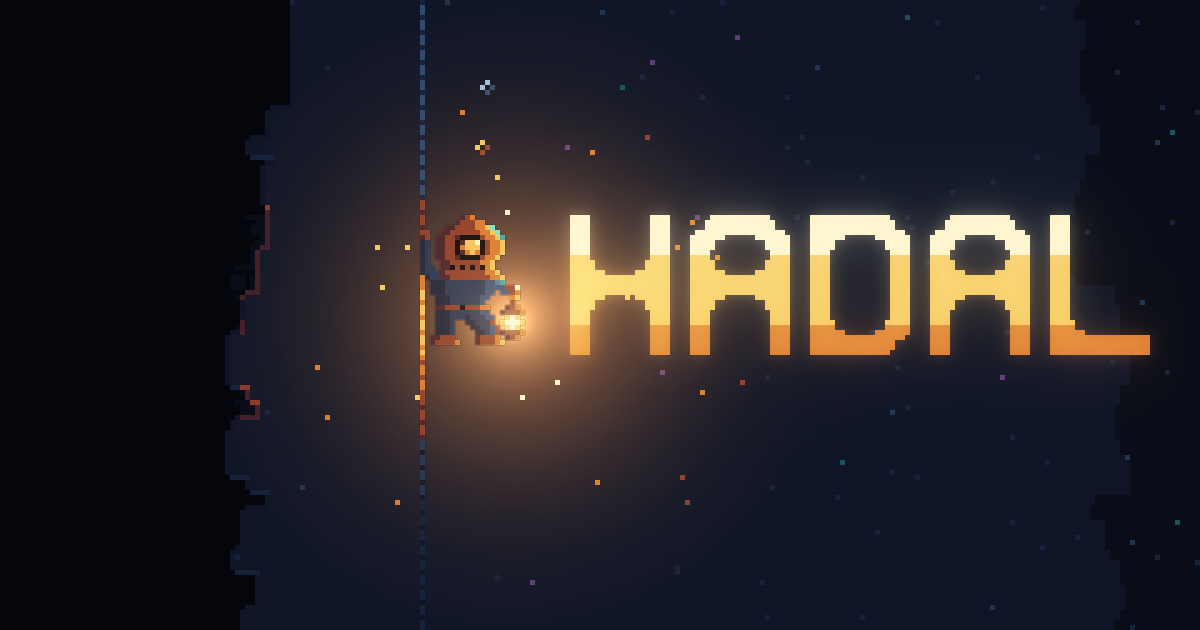
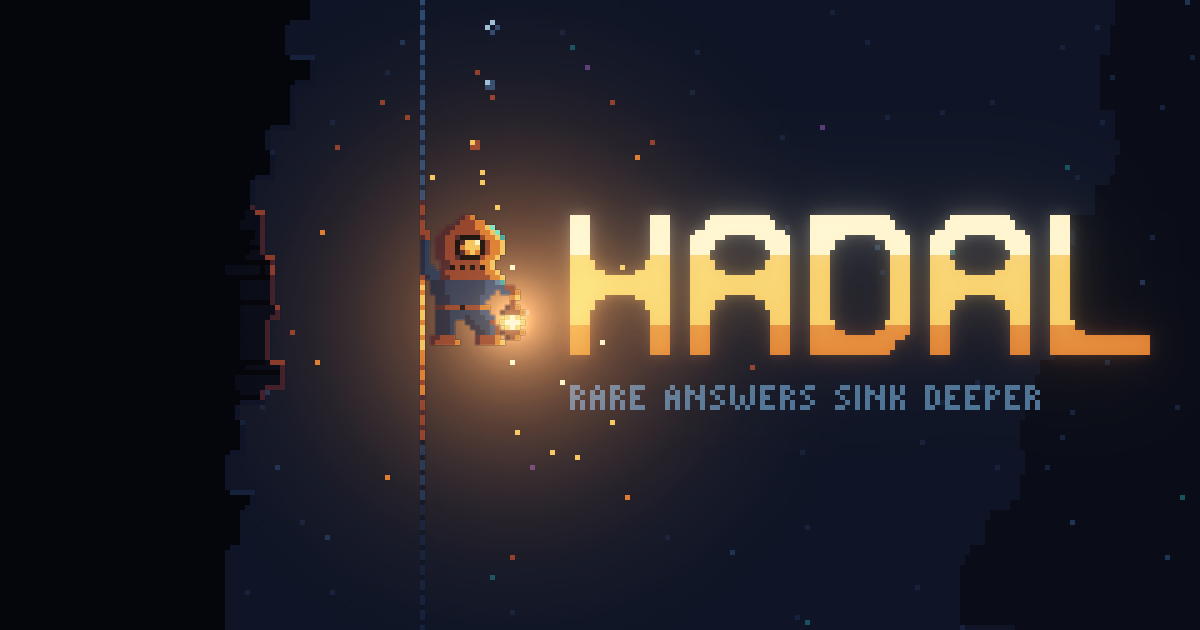
feat(brand): add the tagline under the title in og image

diff --git a/design/brand/og.ts b/design/brand/og.ts
@@ -2,6 +2,7 @@ import { createGame } from "../../src/web/state";
 import { FONTS, drawText } from "../../src/web/pixel/font";
 import type { Frame, Light } from "../../src/web/pixel/frame";
 import { Scene } from "../../src/web/pixel/scene";
+import { en } from "../../src/shared/words/en";
 
 export function drawOg(frame: Frame): Light[] {
   const game = createGame();
@@ -18,5 +19,6 @@ export function drawOg(frame: Frame): Light[] {
   frame.emit = 110;
   drawText(frame, FONTS.huge, "HADAL", 114, 43, (row) => (row < 8 ? 16 : row < 22 ? 15 : 14));
   frame.emit = 0;
+  drawText(frame, FONTS.tiny, en.title.tagline, 114, 43 + FONTS.huge.height + 6, 6);
   return lights;
 }
